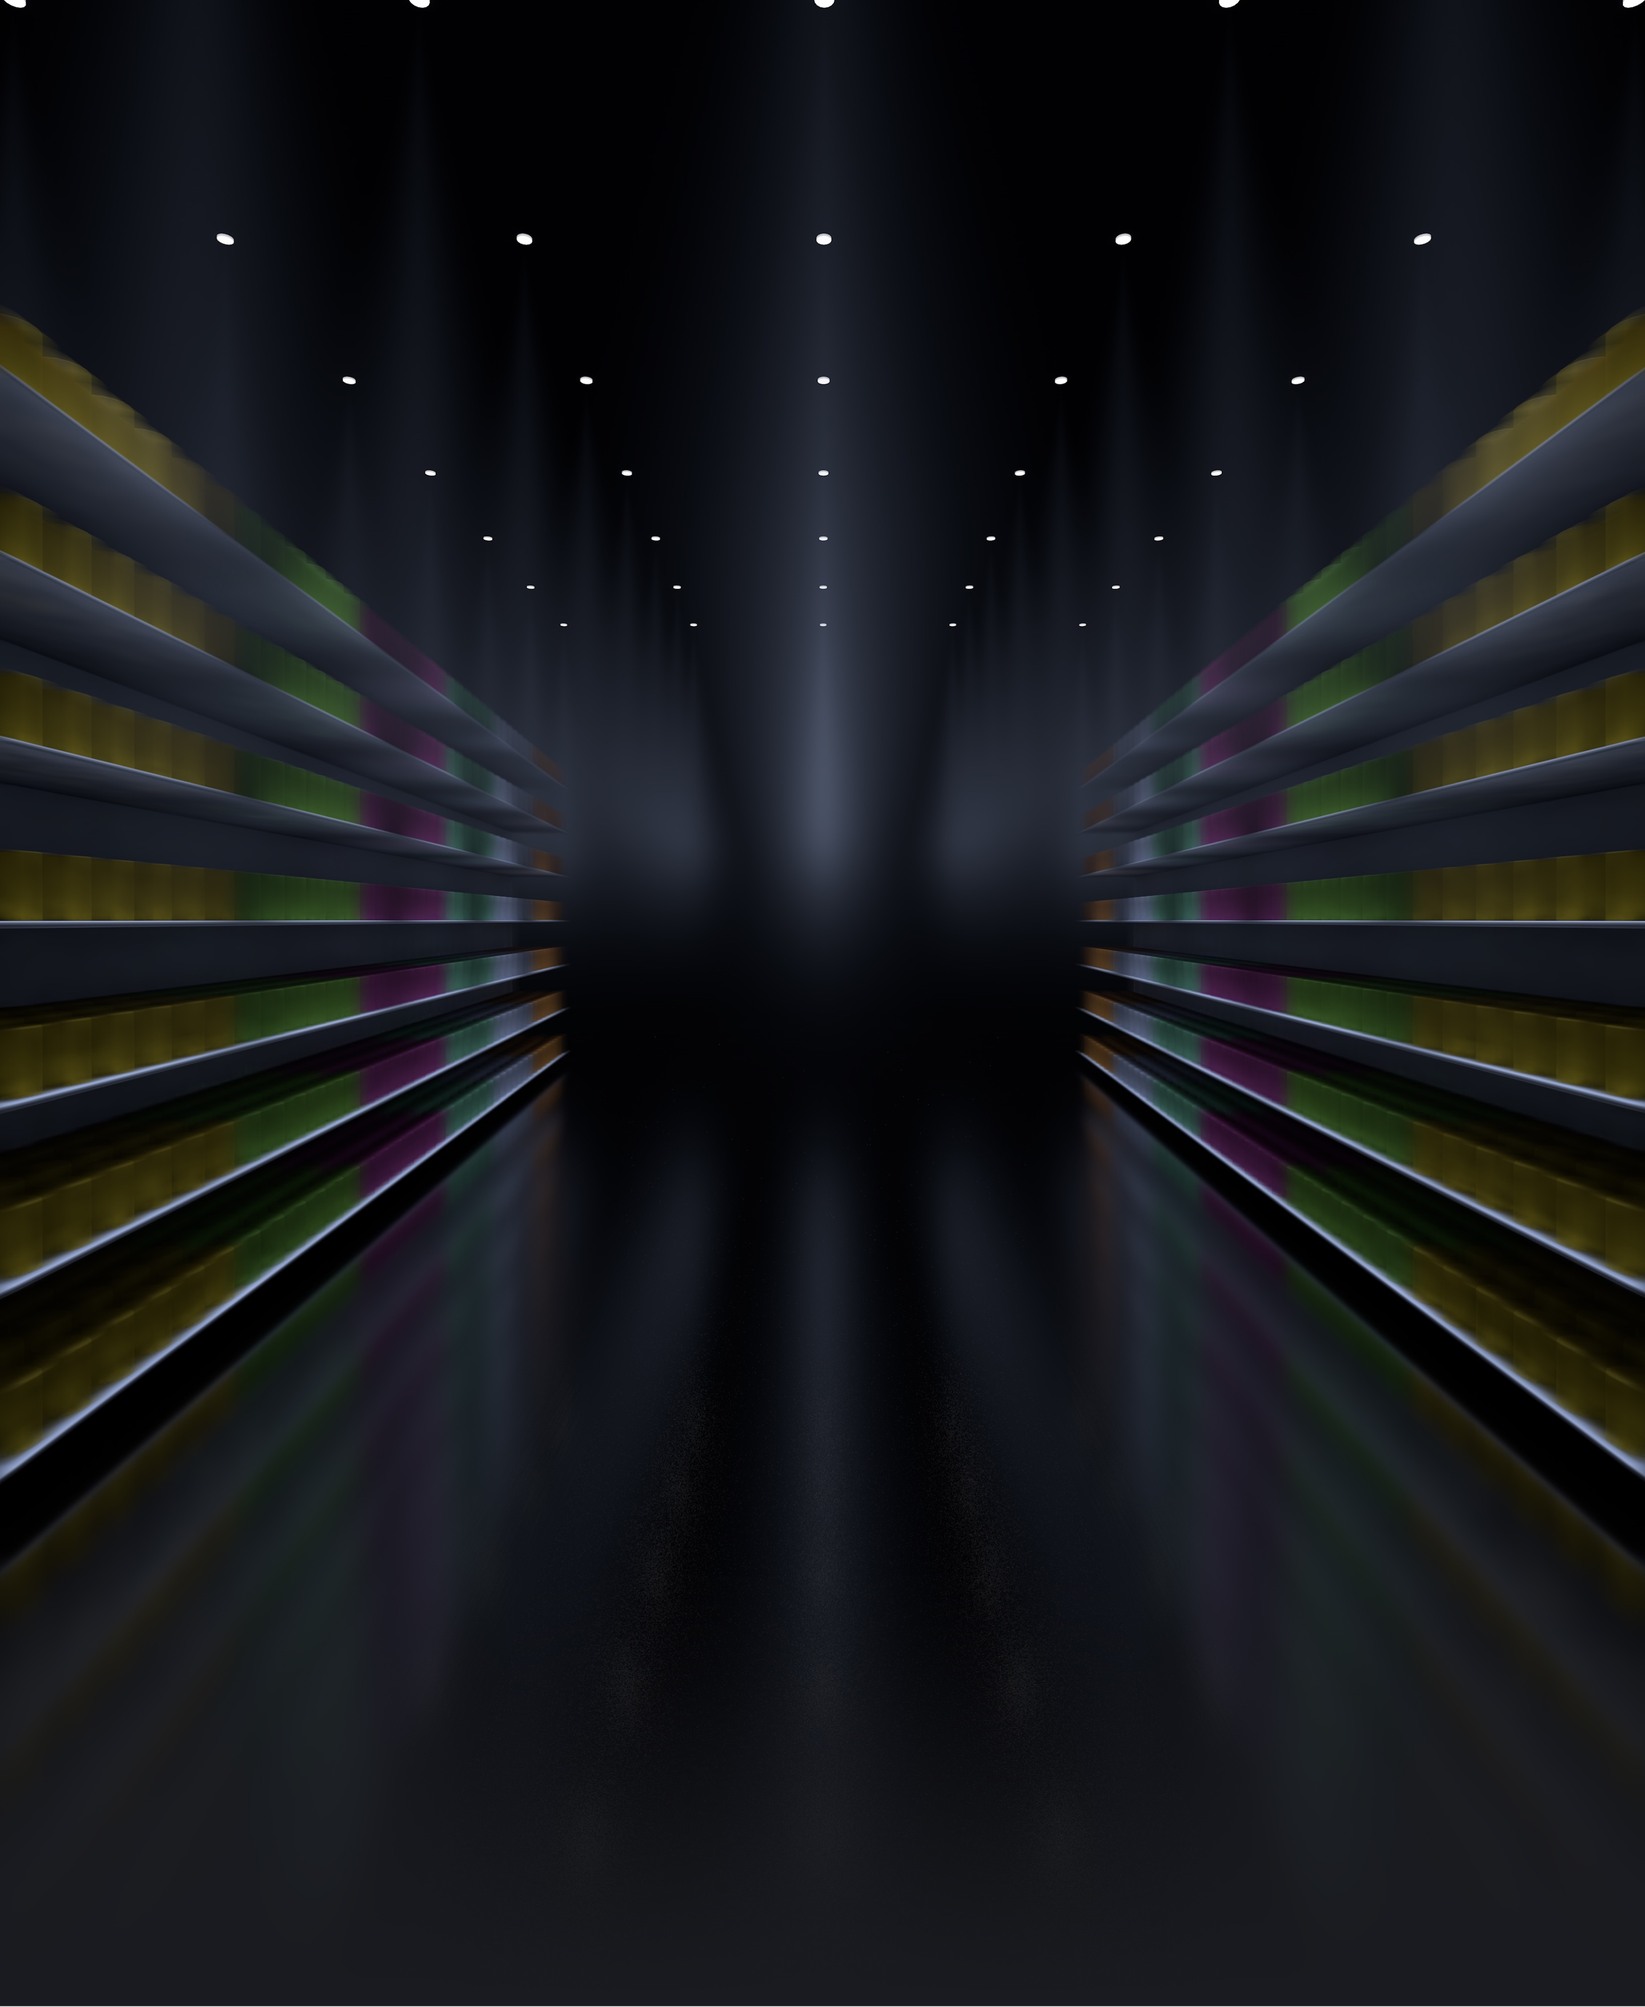
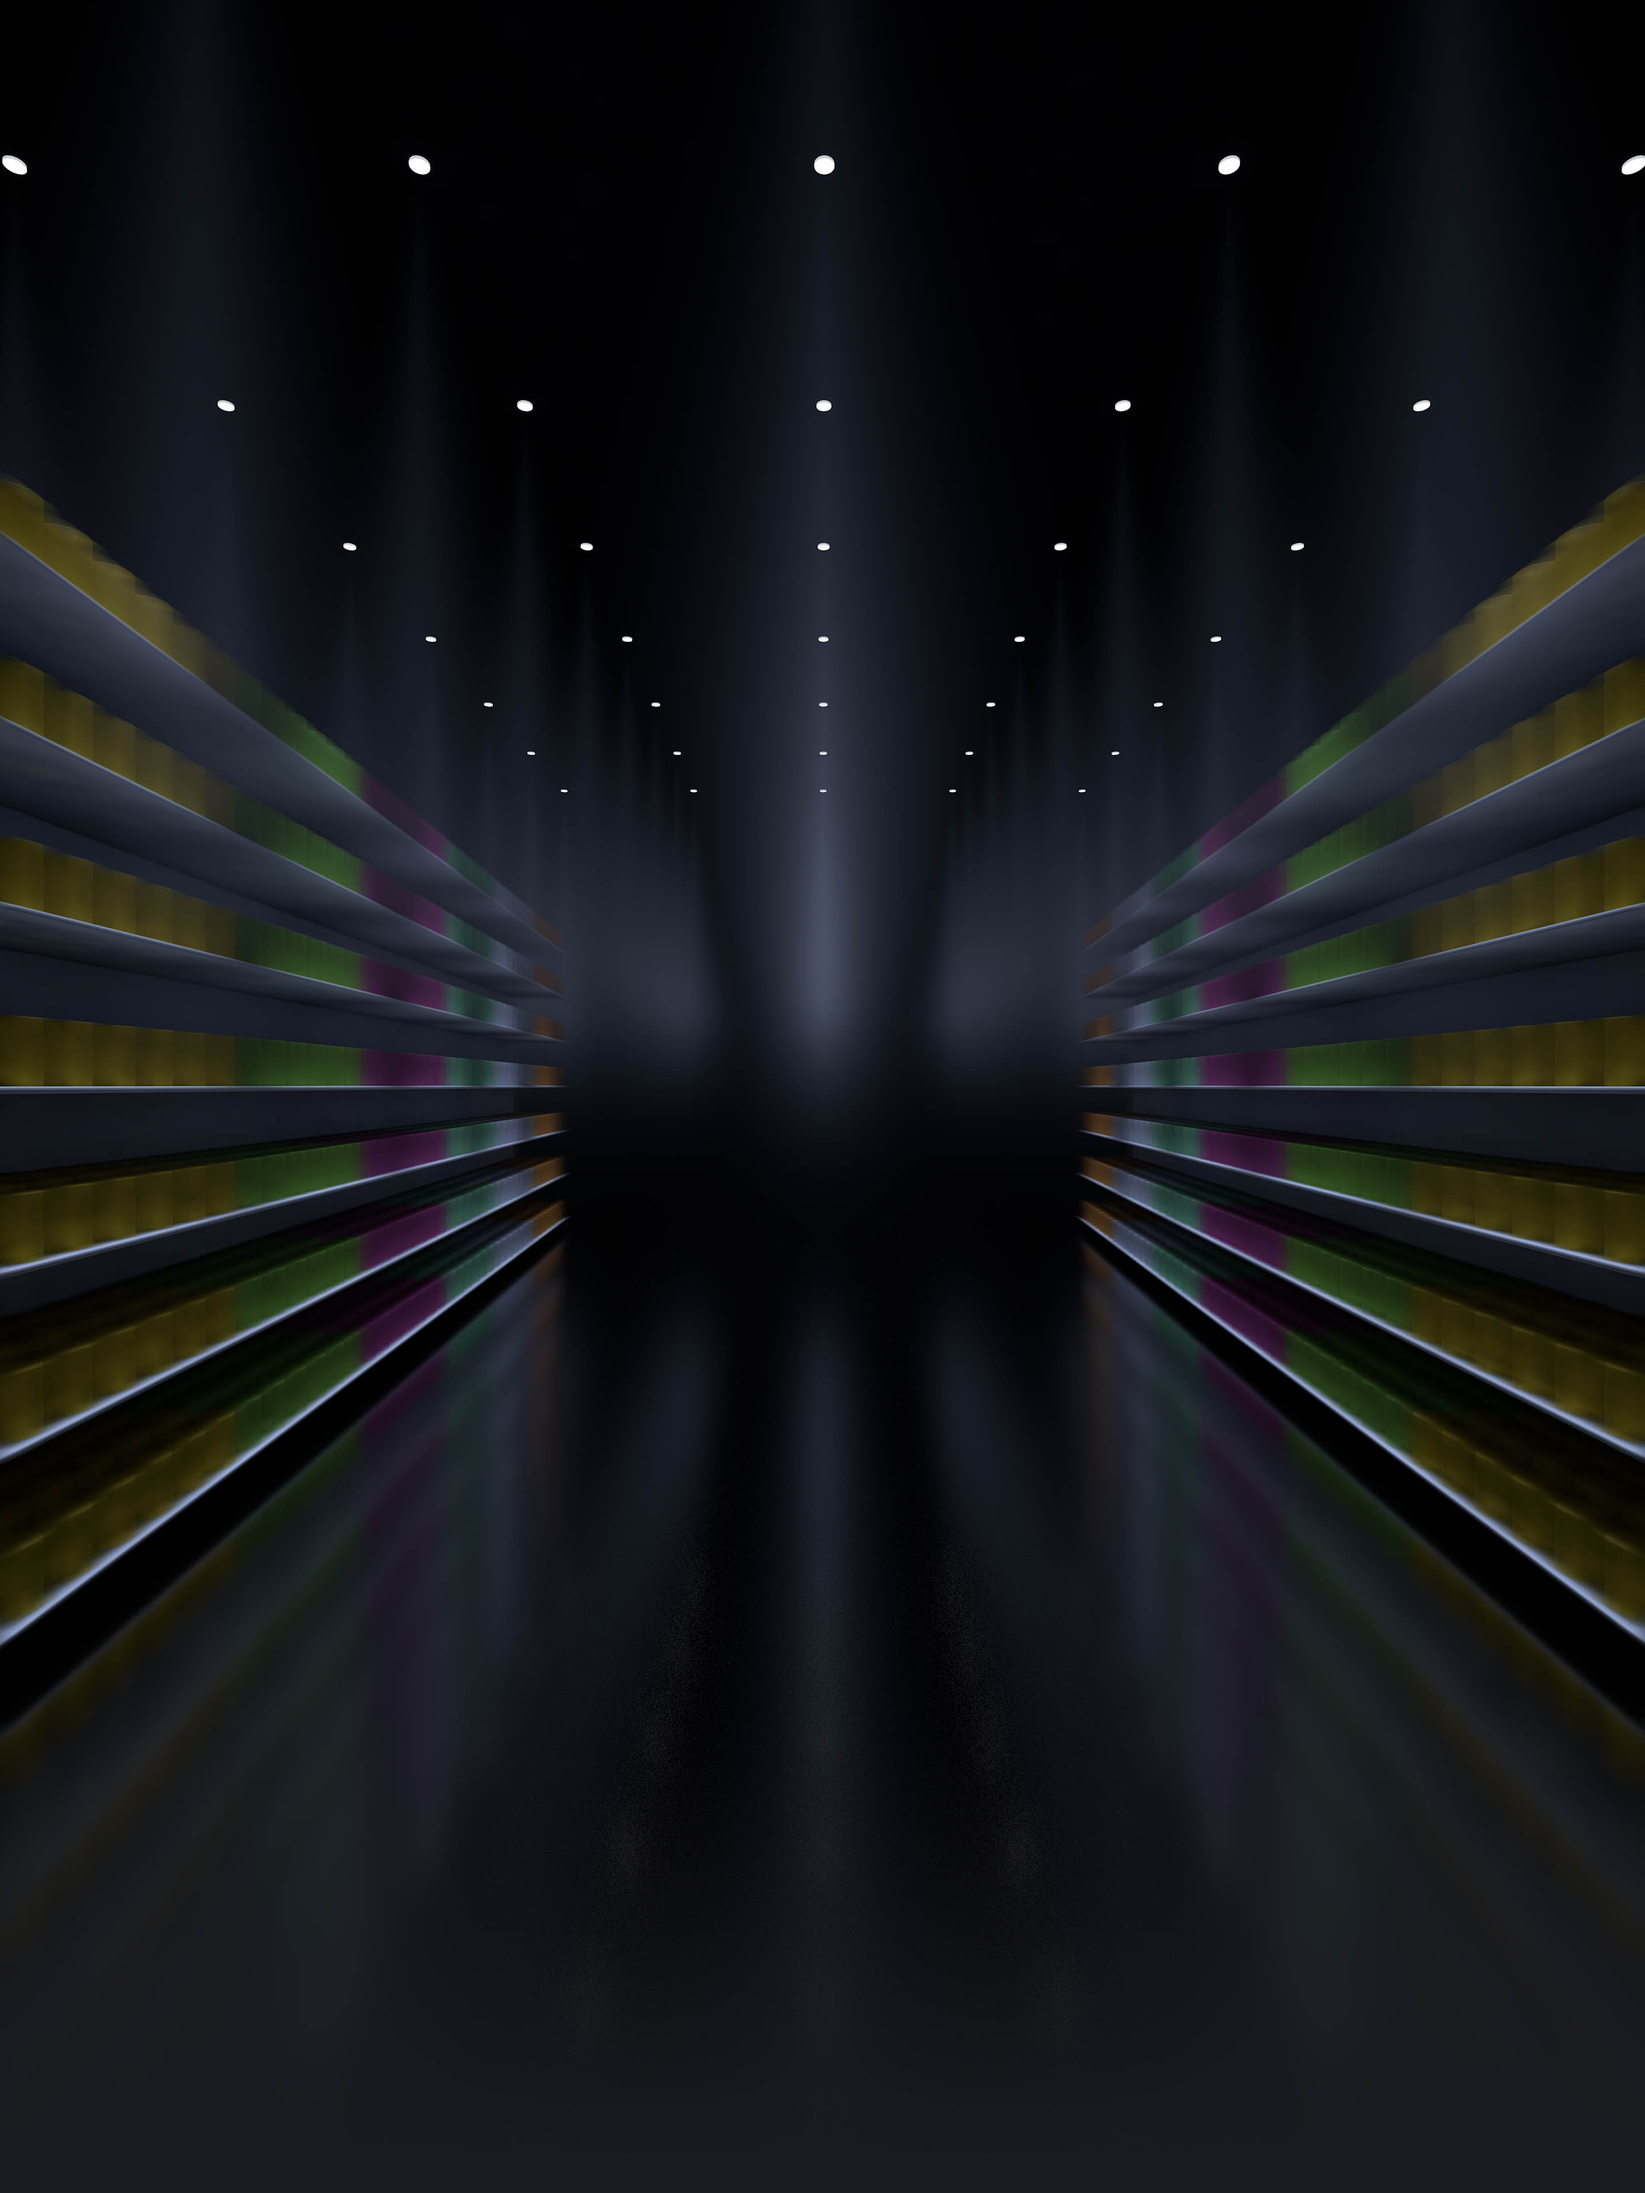
Update header graphic for taller aspect, no need for 3x since it's not that high res

diff --git a/index.html b/index.html
@@ -105,14 +105,8 @@
       @media (-webkit-min-device-pixel-ratio: 2), (min-resolution: 192dpi) {
         .hero { background-image: url('gfx/header@2x.jpg'); }
       }
-      @media (min-width: 1441px), (-webkit-min-device-pixel-ratio: 2), (min-resolution: 192dpi) {
-        .hero { background-image: url('gfx/header@3x.jpg'); }
-      }
       @media (prefers-color-scheme: dark) and (-webkit-min-device-pixel-ratio: 2), (prefers-color-scheme: dark) and (min-resolution: 192dpi) {
         .hero { background-image: url('gfx/header-dark@2x.jpg'); }
-      }
-      @media (prefers-color-scheme: dark) and (min-width: 1441px),(prefers-color-scheme: dark) and (-webkit-min-device-pixel-ratio: 2),(prefers-color-scheme: dark) and (min-resolution: 192dpi) {
-        .hero { background-image: url('gfx/header-dark@3x.jpg'); }
       }
     </style>
   </head>
